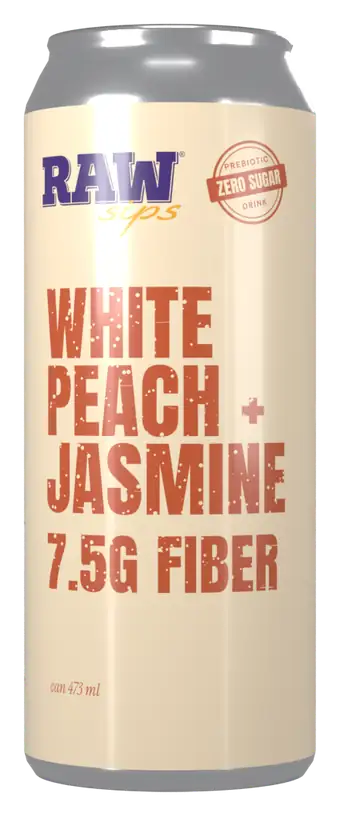
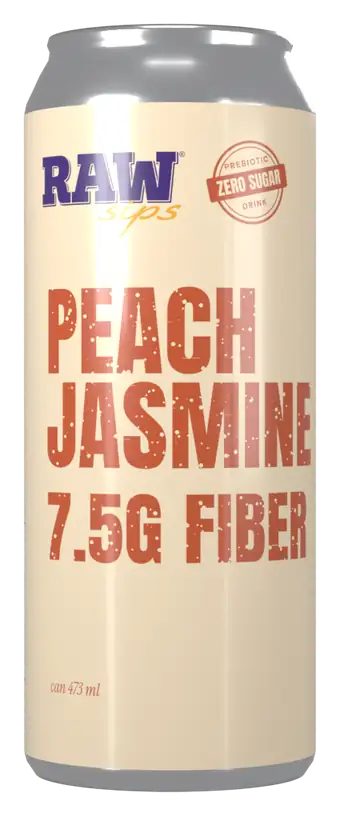
Rename White Peach + Jasmine to Peach Jasmine
Claude-Session: https://claude.ai/code/session_01YEFVZs8gZVUd2vejphgc8r

Changed region(s): [[0.1176, 0.337, 0.9118, 0.7353]]

diff --git a/index.html b/index.html
@@ -4,7 +4,7 @@
 <meta charset="utf-8">
 <meta name="viewport" content="width=device-width, initial-scale=1">
 <title>RAW sips — Prebiotic Functional Drink</title>
-<meta name="description" content="RAW sips: prebiotic functional drink with 7.5 g fiber and zero sugar. Apple Blossom, White Peach + Jasmine and Lemon Ginger.">
+<meta name="description" content="RAW sips: prebiotic functional drink with 7.5 g fiber and zero sugar. Apple Blossom, Peach Jasmine and Lemon Ginger.">
 <link rel="icon" href="img/mark.webp">
 <link rel="preconnect" href="https://fonts.googleapis.com">
 <link rel="preconnect" href="https://fonts.gstatic.com" crossorigin>
@@ -89,7 +89,7 @@ footer img{width:90px;margin:0 auto}
 <p class="serif">prebiotic functional drink · 473 ml tall cans</p>
 <div class="chips"><span class="chip">7.5G FIBER</span><span class="chip">0G SUGAR</span><span class="chip">PREBIOTIC</span></div>
 </div>
-<div><img src="img/trio.webp" alt="Apple Blossom, Lemon Ginger and White Peach + Jasmine cans" style="width:100%;max-width:620px;margin:0 auto"></div>
+<div><img src="img/trio.webp" alt="Apple Blossom, Lemon Ginger and Peach Jasmine cans" style="width:100%;max-width:620px;margin:0 auto"></div>
 </div></header>
 
 <section id="about"><div class="wrap">
@@ -108,8 +108,8 @@ footer img{width:90px;margin:0 auto}
 </div></section>
 
 <section class="flavour peach"><div class="wrap">
-<img src="img/can-peach.webp" alt="White Peach + Jasmine 473 ml can">
-<div><p class="eyebrow">Flavour 02</p><h1 style="color:var(--burnt)">WHITE PEACH<br>+ JASMINE</h1>
+<img src="img/can-peach.webp" alt="Peach Jasmine 473 ml can">
+<div><p class="eyebrow">Flavour 02</p><h1 style="color:var(--burnt)">PEACH<br>JASMINE</h1>
 <p>Juicy peach with a floral jasmine finish. A warm peach-cream can with burnt-peach ink.</p>
 <div class="chips"><span class="chip">7.5G FIBER</span><span class="chip">0G SUGAR</span><span class="chip">473 ML</span></div></div>
 </div></section>
@@ -157,7 +157,7 @@ footer img{width:90px;margin:0 auto}
 <section id="campaign" class="blush"><div class="wrap">
 <div class="head"><p class="eyebrow">Campaign</p><h2>Your gut called.</h2></div>
 <div class="ads"><img src="img/billboard.webp" alt="Billboard: Your gut called. It wants a RAW sip."><img src="img/poster.webp" alt="Poster: Fiber, but make it fun."></div>
-<div class="posts" style="margin-top:24px"><img src="img/social-apple.webp" alt="Apple Blossom social post"><img src="img/social-peach.webp" alt="White Peach + Jasmine social post"><img src="img/social-pack.webp" alt="Six-pack social post"></div>
+<div class="posts" style="margin-top:24px"><img src="img/social-apple.webp" alt="Apple Blossom social post"><img src="img/social-peach.webp" alt="Peach Jasmine social post"><img src="img/social-pack.webp" alt="Six-pack social post"></div>
 </div></section>
 
 <section><div class="wrap">
